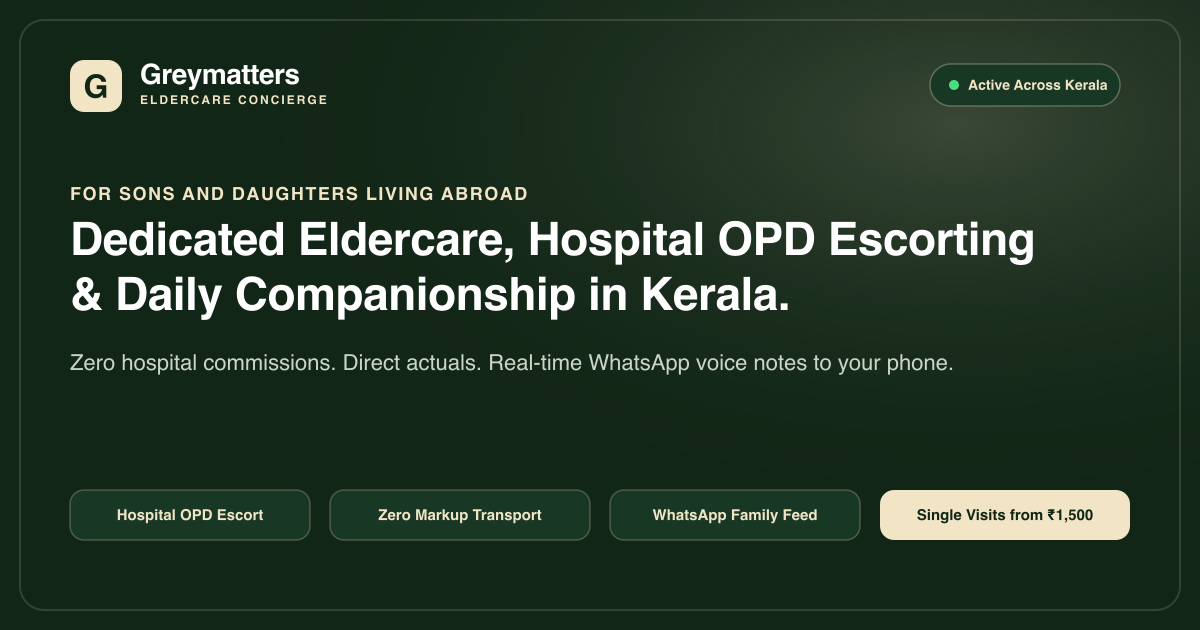
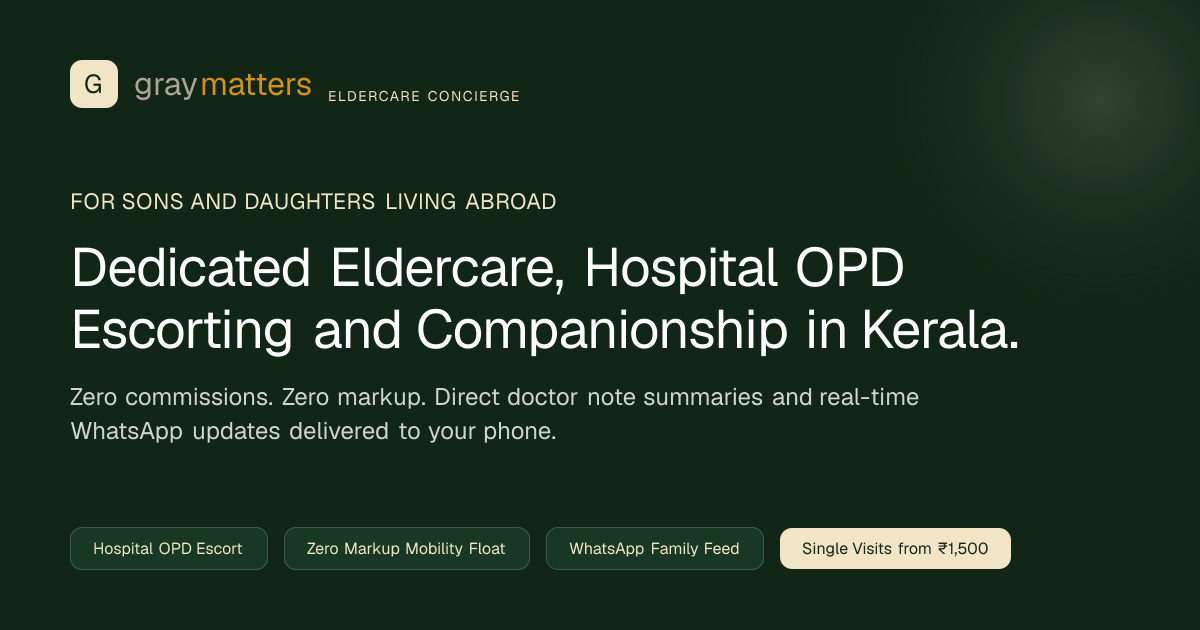
fix(seo): update production domain to greymatterscare.in, remove 'Active Across Kerala' from OG image, and optimize static og-image under 100KB for WhatsApp

diff --git a/app/layout.tsx b/app/layout.tsx
@@ -28,15 +28,13 @@ const poppins = Poppins({
 
 const siteUrl = process.env.NEXT_PUBLIC_SITE_URL
   ? (process.env.NEXT_PUBLIC_SITE_URL.startsWith("http") ? process.env.NEXT_PUBLIC_SITE_URL : `https://${process.env.NEXT_PUBLIC_SITE_URL}`)
-  : process.env.VERCEL_URL
-    ? `https://${process.env.VERCEL_URL}`
-    : "https://greymatters.in";
+  : "https://greymatterscare.in";
 
 export const metadata: Metadata = {
   metadataBase: new URL(siteUrl),
   title: {
-    default: "Greymatters Eldercare Concierge | Dedicated Parent Care in Kerala for NRKs",
-    template: "%s | Greymatters Eldercare"
+    default: "graymatters | Dedicated Parent Care in Kerala for NRKs",
+    template: "%s | graymatters"
   },
   description: "Ethical, zero-commission eldercare accompaniment, hospital OPD escorting, and mobility for parents in Kerala. Direct WhatsApp updates for NRI families abroad.",
   keywords: [
@@ -46,11 +44,11 @@ export const metadata: Metadata = {
     "hospital companion Kerala",
     "OPD escort Calicut Kochi",
     "NRI parents care Kerala",
-    "Greymatters eldercare",
+    "graymatters eldercare",
     "elderly mobility service Kerala"
   ],
   authors: [{ name: "Zynthexion Technologies Private Limited" }],
-  creator: "Greymatters Eldercare Concierge",
+  creator: "graymatters Eldercare Concierge",
   publisher: "Zynthexion Technologies Private Limited",
   formatDetection: {
     telephone: false,
@@ -61,24 +59,28 @@ export const metadata: Metadata = {
     type: "website",
     locale: "en_IN",
     url: siteUrl,
-    siteName: "Greymatters Eldercare Concierge",
-    title: "Greymatters Eldercare | Dedicated Parent Care in Kerala for NRKs",
+    siteName: "graymatters Eldercare Concierge",
+    title: "graymatters | Dedicated Parent Care in Kerala for NRKs",
     description: "Ethical, zero-commission eldercare accompaniment, hospital OPD escorting, and mobility for parents in Kerala. Direct WhatsApp updates for NRI families abroad.",
     images: [
       {
         url: "/og-image.png",
+        secureUrl: `${siteUrl}/og-image.png`,
         width: 1200,
         height: 630,
-        alt: "Greymatters Eldercare Concierge Kerala",
+        alt: "graymatters Eldercare Concierge Kerala",
         type: "image/png",
       }
     ]
   },
   twitter: {
     card: "summary_large_image",
-    title: "Greymatters Eldercare | Dedicated Parent Care in Kerala for NRKs",
+    title: "graymatters | Dedicated Parent Care in Kerala for NRKs",
     description: "Ethical, zero-commission eldercare accompaniment, hospital OPD escorting, and mobility for parents in Kerala. Direct WhatsApp updates for NRI families abroad.",
-    images: ["/og-image.png"],
+    images: [`${siteUrl}/og-image.png`],
+  },
+  other: {
+    "image_src": `${siteUrl}/og-image.png`,
   },
   robots: {
     index: true,
@@ -104,6 +106,15 @@ export default function RootLayout({ children }: LayoutProps<"/">) {
       lang="en"
       className={`${geistSans.variable} ${geistMono.variable} ${poppins.variable} h-full antialiased`}
     >
+      <head>
+        <meta property="og:image" content={`${siteUrl}/og-image.png`} />
+        <meta property="og:image:secure_url" content={`${siteUrl}/og-image.png`} />
+        <meta property="og:image:type" content="image/png" />
+        <meta property="og:image:width" content="1200" />
+        <meta property="og:image:height" content="630" />
+        <meta property="og:image:alt" content="graymatters Eldercare Concierge Kerala" />
+        <link rel="image_src" href={`${siteUrl}/og-image.png`} />
+      </head>
       <body className="min-h-full flex flex-col">
         {children}
         <Script

diff --git a/app/opengraph-image.tsx b/app/opengraph-image.tsx
@@ -64,17 +64,11 @@ export default function Image() {
             >
               G
             </div>
-            <div style={{ display: "flex", flexDirection: "column" }}>
-              <span
-                style={{
-                  color: "#FFFFFF",
-                  fontSize: "30px",
-                  fontWeight: 800,
-                  letterSpacing: "-0.5px",
-                }}
-              >
-                Greymatters
-              </span>
+            <div style={{ display: "flex", alignItems: "baseline", gap: "10px" }}>
+              <div style={{ display: "flex", fontSize: "32px", fontWeight: 800 }}>
+                <span style={{ color: "#aca298" }}>gray</span>
+                <span style={{ color: "#d3901b" }}>matters</span>
+              </div>
               <span
                 style={{
                   color: "#F1E5C6",
@@ -87,36 +81,6 @@ export default function Image() {
                 Eldercare Concierge
               </span>
             </div>
-          </div>
-
-          <div
-            style={{
-              display: "flex",
-              alignItems: "center",
-              gap: "10px",
-              backgroundColor: "rgba(241, 229, 198, 0.12)",
-              border: "1px solid rgba(241, 229, 198, 0.25)",
-              padding: "8px 20px",
-              borderRadius: "9999px",
-            }}
-          >
-            <div
-              style={{
-                width: "8px",
-                height: "8px",
-                borderRadius: "50%",
-                backgroundColor: "#4ADE80",
-              }}
-            />
-            <span
-              style={{
-                color: "#F1E5C6",
-                fontSize: "16px",
-                fontWeight: 600,
-              }}
-            >
-              Active Across Kerala
-            </span>
           </div>
         </div>
 
